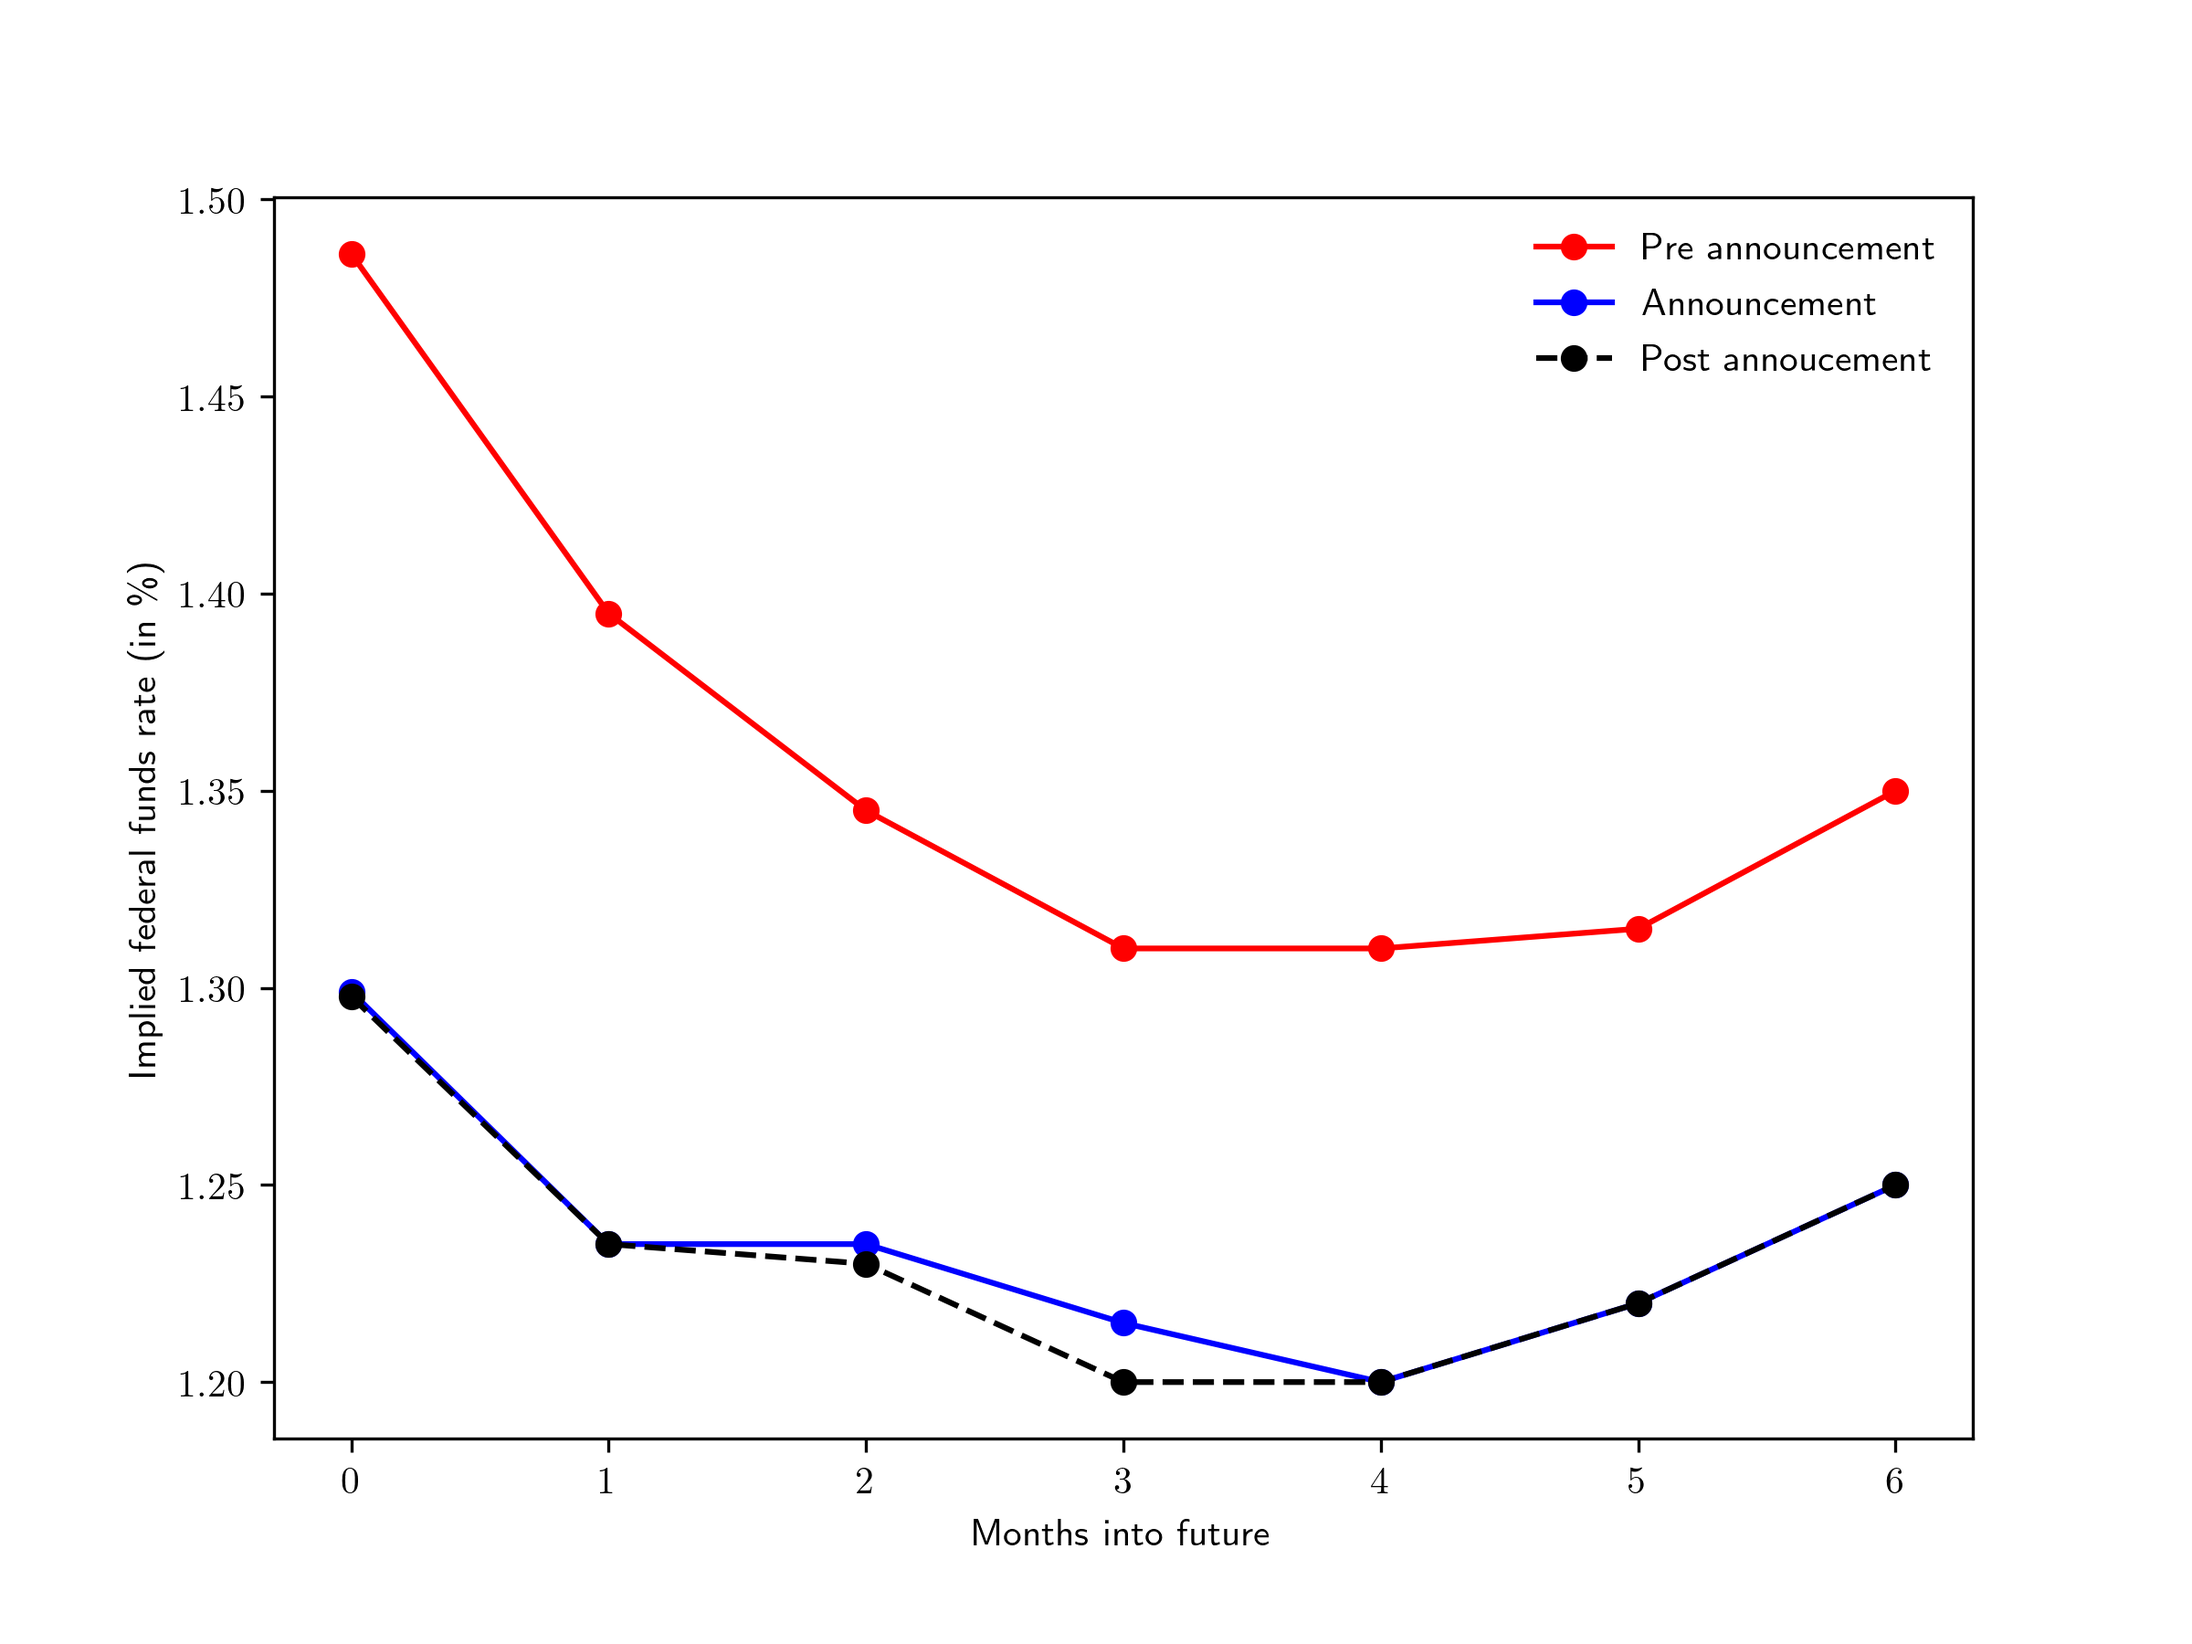
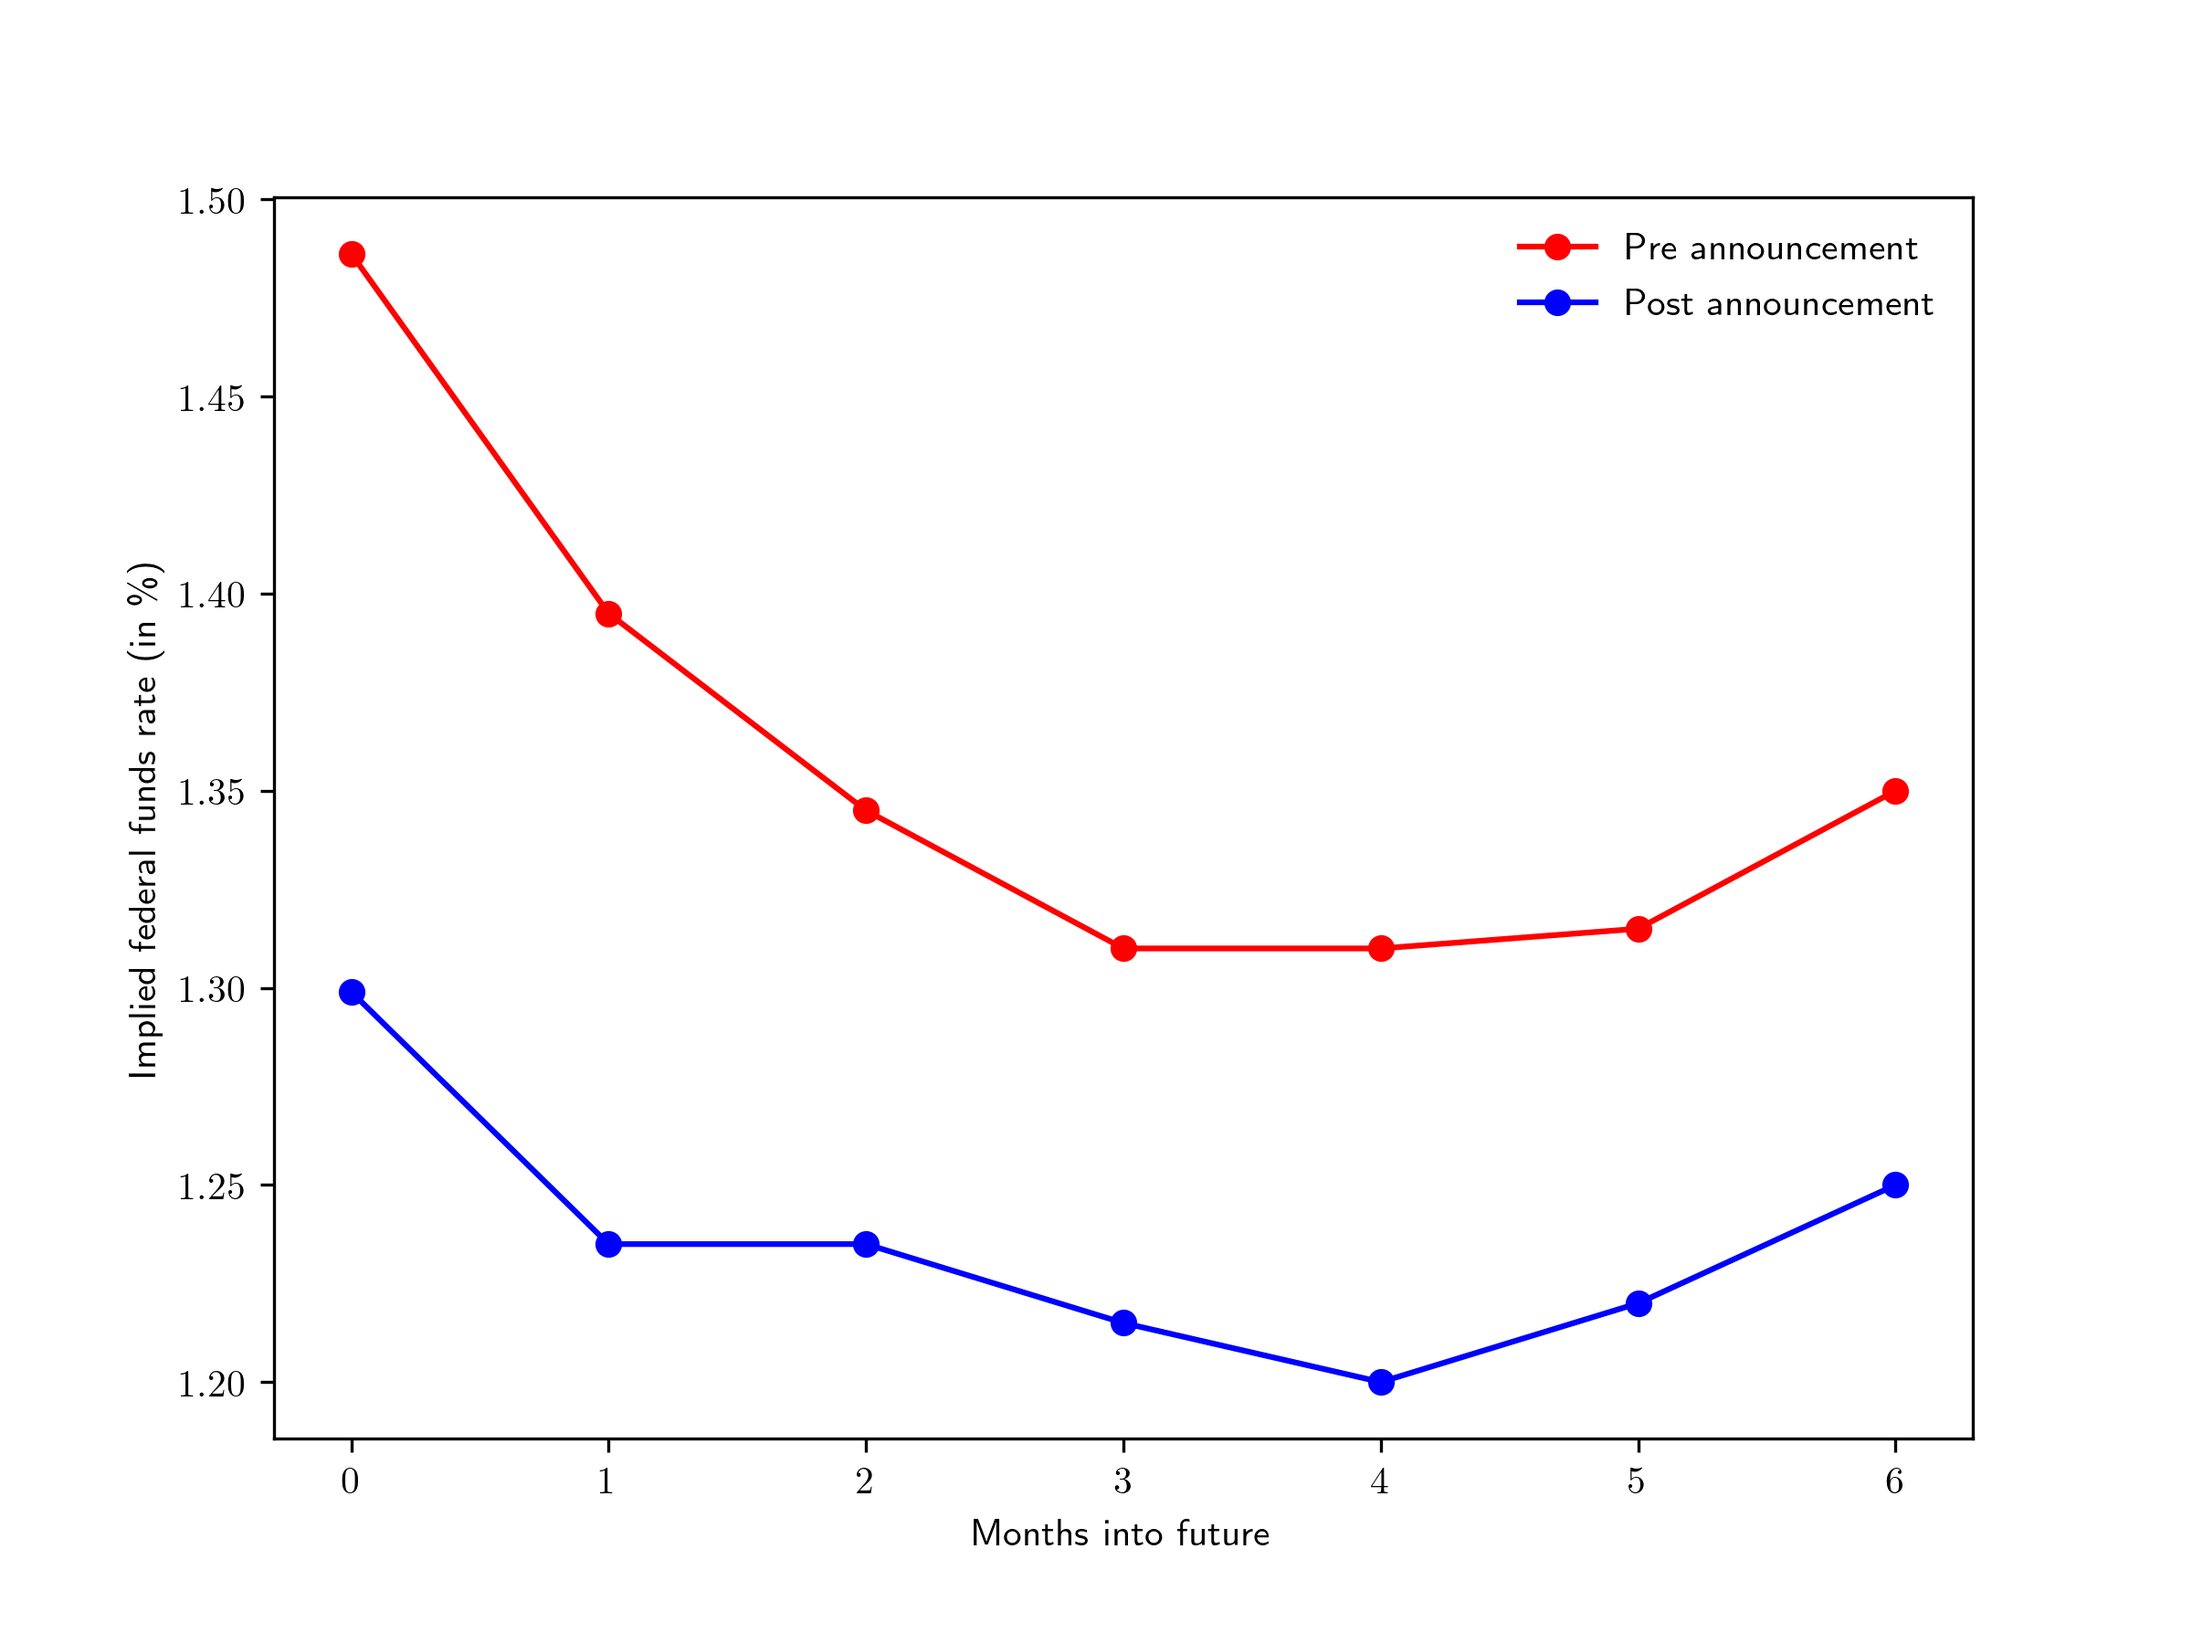
Modify federal funds future graph
Former-commit-id: d2b7702dc2c45b3b00d091712cee67c7e67a01bb

diff --git a/src/analysis/python/scripts/produce_federal_funds_graphs.py b/src/analysis/python/scripts/produce_federal_funds_graphs.py
@@ -36,11 +36,11 @@ def create_plot(rates,datestring):
     for fff_price in ffrs:
         rates_annouc.append(rates[rates['date']==date_announcement][fff_price+'_rate'].item())
         rate_pre_annouc.append(rates[rates['date']==date_pre_ann][fff_price+'_rate'].item())
-        rate_post_annouc.append(rates[rates['date']==date_post_ann][fff_price+'_rate'].item())
+        #rate_post_annouc.append(rates[rates['date']==date_post_ann][fff_price+'_rate'].item())
     
     rates_annouc[0]=rates[rates['date']==date_announcement]['ffr_future'].item()
     rate_pre_annouc[0]=rates[rates['date']==date_pre_ann]['ffr_future'].item()
-    rate_post_annouc[0]=rates[rates['date']==date_post_ann]['ffr_future'].item()
+    #rate_post_annouc[0]=rates[rates['date']==date_post_ann]['ffr_future'].item()
     
     
     plt.rc('text', usetex=True)
@@ -50,13 +50,13 @@ def create_plot(rates,datestring):
 
     ax.plot(rate_pre_annouc, color='red', ls='solid',marker='o')
     ax.plot(rates_annouc, color='blue', ls='solid',marker='o')
-    ax.plot(rate_post_annouc, color='k', ls='dashed',marker='o')
+    #ax.plot(rate_post_annouc, color='k', ls='dashed',marker='o')
     
   
     ax.set_xlabel('Months into future')
     ax.set_ylabel('Implied federal funds rate (in \%)')
 
-    plt.legend(['Pre announcement','Announcement','Post annoucement'],frameon=False)
+    plt.legend(['Pre announcement','Post announcement'],frameon=False)
     plt.savefig('../output/fed_future_'+datestring+'.png', dpi=300)
 
 if __name__ == "__main__":

diff --git a/src/analysis/python/output/tab_sumstats_menu_byyear.tex b/src/analysis/python/output/tab_sumstats_menu_byyear.tex
@@ -4,11 +4,11 @@
 Policy Options & 1988 & 1989 & 1990 & 1991 & 1992 & 1993 & 1994 & 1995 & 1996 & 1997 & 1998 & 1999 & 2000 & 2001 & 2002 & 2003 & 2004 & 2005 & 2006 & 2007 & 2008 \\ 
 \hline 
 E & 0 & 0 & 0 & 0 & 0 & 0 & 0 & 0 & 0 & 0 & 0 & 0 & 0 & 3 & 0 & 0 & 0 & 0 & 0 & 0 & 0 \\
+E,T,U & 5 & 6 & 7 & 2 & 7 & 8 & 1 & 6 & 4 & 1 & 4 & 1 & 2 & 0 & 2 & 0 & 0 & 0 & 0 & 4 & 1 \\
+E,U & 0 & 1 & 1 & 6 & 1 & 0 & 0 & 1 & 0 & 0 & 2 & 0 & 0 & 5 & 5 & 8 & 1 & 0 & 0 & 3 & 5 \\
 T & 0 & 0 & 0 & 0 & 0 & 0 & 0 & 0 & 0 & 0 & 0 & 0 & 1 & 0 & 0 & 0 & 0 & 5 & 1 & 0 & 0 \\
+T,U & 3 & 1 & 0 & 0 & 0 & 0 & 7 & 1 & 4 & 7 & 2 & 7 & 5 & 0 & 1 & 0 & 6 & 3 & 7 & 1 & 2 \\
 U & 0 & 0 & 0 & 0 & 0 & 0 & 0 & 0 & 0 & 0 & 0 & 0 & 0 & 0 & 0 & 0 & 1 & 0 & 0 & 0 & 0 \\
-U,E & 0 & 1 & 1 & 6 & 1 & 0 & 0 & 1 & 0 & 0 & 2 & 0 & 0 & 5 & 5 & 8 & 1 & 0 & 0 & 3 & 5 \\
-U,E,T & 5 & 6 & 7 & 2 & 7 & 8 & 1 & 6 & 4 & 1 & 4 & 1 & 2 & 0 & 2 & 0 & 0 & 0 & 0 & 4 & 1 \\
-U,T & 3 & 1 & 0 & 0 & 0 & 0 & 7 & 1 & 4 & 7 & 2 & 7 & 5 & 0 & 1 & 0 & 6 & 3 & 7 & 1 & 2 \\
 \addlinespace 
 Total & 8 & 8 & 8 & 8 & 8 & 8 & 8 & 8 & 8 & 8 & 8 & 8 & 8 & 8 & 8 & 8 & 8 & 8 & 8 & 8 & 8 \\
 \hline 

diff --git a/src/analysis/python/output/tab_sumstats_menu_byperiod.tex b/src/analysis/python/output/tab_sumstats_menu_byperiod.tex
@@ -4,11 +4,11 @@
 Policy Options & pre 1989-06-01 & \shortstack{1989-06-01- \\ 1993-06-01} & \shortstack{1993-06-01- \\ 1995-04-01} & \shortstack{1995-04-01- \\ 2000-11-01} & \shortstack{2000-11-01- \\ 2004-01-01} & \shortstack{2004-01-01- \\ 2007-02-01} & post 2007-02-01 \\ 
 \hline 
 E & 0 & 0 & 0 & 0 & 3 & 0 & 0 \\
+E,T,U & 7 & 23 & 7 & 15 & 4 & 0 & 5 \\
+E,U & 0 & 9 & 0 & 3 & 18 & 1 & 8 \\
 T & 0 & 0 & 0 & 1 & 0 & 6 & 0 \\
+T,U & 4 & 0 & 8 & 25 & 1 & 17 & 2 \\
 U & 0 & 0 & 0 & 0 & 0 & 1 & 0 \\
-U,E & 0 & 9 & 0 & 3 & 18 & 1 & 8 \\
-U,E,T & 7 & 23 & 7 & 15 & 4 & 0 & 5 \\
-U,T & 4 & 0 & 8 & 25 & 1 & 17 & 2 \\
 \addlinespace 
 Total & 11 & 32 & 15 & 44 & 26 & 25 & 15 \\
 \hline 

diff --git a/src/analysis/python/output/tab_sumstats_menu.tex b/src/analysis/python/output/tab_sumstats_menu.tex
@@ -6,9 +6,9 @@ Policy Options & Number of Meetings \\
 E & 3 \\
 T & 7 \\
 U & 1 \\
-U,E & 39 \\
-U,E,T & 61 \\
-U,T & 57 \\
+E,U & 39 \\
+T,U & 57 \\
+E,T,U & 61 \\
 \addlinespace 
 Total & 168 \\
 \hline 

diff --git a/src/derivation/python/scripts/generate_matlab_file.py b/src/derivation/python/scripts/generate_matlab_file.py
@@ -118,7 +118,5 @@ clean_data[['d_meeting',  'd_crisis', 'd_nineeleven']]=clean_data[['d_meeting', 
 
 # Add additional data adjustments
 
-
-
 clean_data.to_csv('../output/matlab_file.csv',index=False)
 
